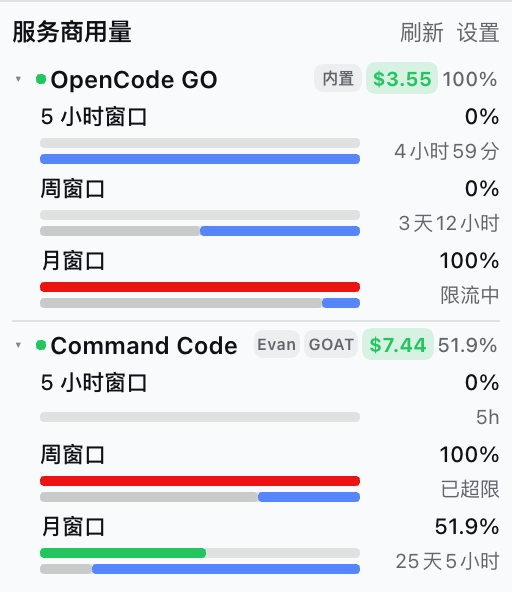
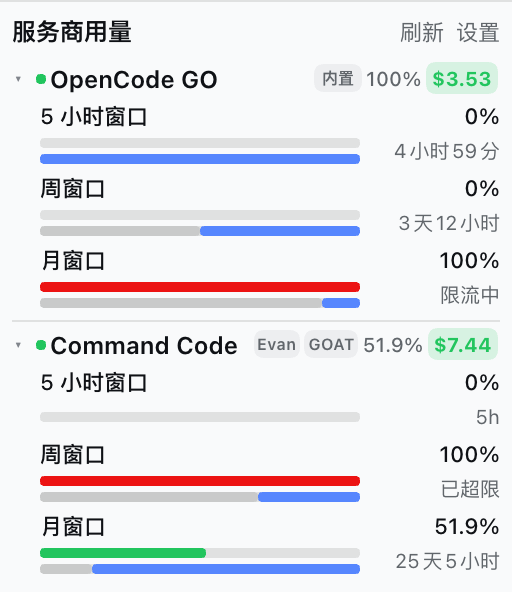
style: place the percentage before the balance again

Changed region(s): [[0.625, 0.0912, 1.0, 0.1824], [0.6875, 0.5473, 0.9688, 0.6081]]

diff --git a/lib/client.js b/lib/client.js
@@ -892,11 +892,11 @@ window.__ModuleLoader__.load({
 								accountBadge,
 								planBadge,
 								fallbackBadge,
-								balanceBadge,
 								react_jsx_runtime.jsx("span", {
 									className: "dpu-provider-pct",
 									children: pctText
-								})
+								}),
+								balanceBadge
 							]
 						}, "head"),
 						isCollapsed ? null : react_jsx_runtime.jsx("div", { className: "dpu-provider-body", children: body }, "body")
